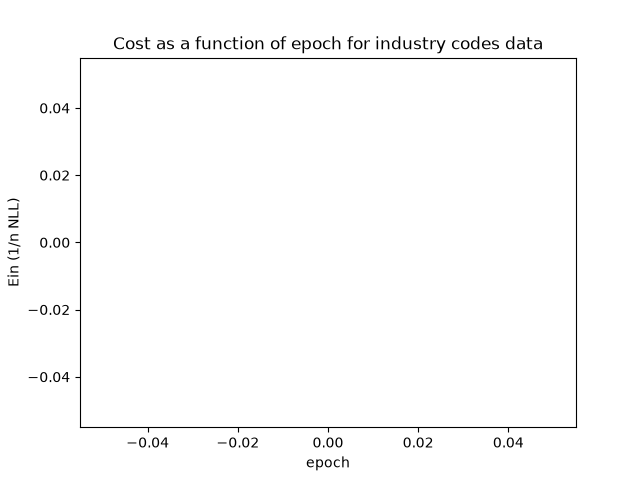
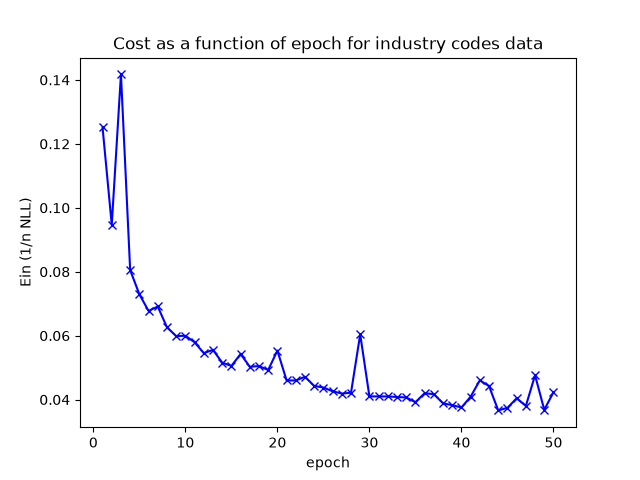
Code finsihed for Handin_1 machine learning

diff --git a/ML26/Handin1/h1_starter_code/h1git/logistic_regression.py b/ML26/Handin1/h1_starter_code/h1git/logistic_regression.py
@@ -51,6 +51,18 @@ class LogisticRegressionClassifier():
         grad = np.zeros(w.shape)
     
         ### YOUR CODE HERE
+        n = X.shape[0]
+        # Margin: s_i = y_i * (x_i . w)
+        exponent = y * np.dot(X, w)
+        
+        # Average negative log-likelihood
+        # numpy has np.logaddexp(0, -s) that computes ln(1 + exp(-s)) with less overflow (numerical stability) #trust
+        cost = np.mean(np.logaddexp(0, -exponent))
+        
+        # Gradient:
+        # logistic(-exponent), let arg be negative, to get a positive output 
+        # transpose X to get correct dimensions
+        grad = -np.dot(X.T, y * logistic(-exponent))
         ### END CODE
         assert grad.shape == w.shape
         return cost, grad
@@ -81,8 +93,24 @@ class LogisticRegressionClassifier():
         if w is None: w = np.zeros(X.shape[1])
         history = []        
         ### YOUR CODE HERE 
-        
-
+        n = X.shape[0]
+        for epoch in range(epochs):
+            # Shuffle data before each epoch
+            indices = np.random.permutation(n)
+            X_shuffled = X[indices]
+            y_shuffled = y[indices]
+            
+            # Mini-batch gradient descent thing
+            for i in range(0, n, batch_size):
+                X_batch = X_shuffled[i : i + batch_size]
+                y_batch = y_shuffled[i : i + batch_size]
+                _, grad = self.cost_grad(X_batch, y_batch, w) # not interested in the cost here
+                w = w - lr * grad
+            
+            # remember cost for each epoch
+            epoch_cost, _ = self.cost_grad(X, y, w) # cost here
+            history.append(epoch_cost)
+            print(f"Epoch {epoch + 1}/{epochs} - Cost: {epoch_cost:.4f}") #check status after each epoch
         ### END CODE
         self.w = w
         self.history = history
@@ -102,10 +130,9 @@ class LogisticRegressionClassifier():
         """
         out = np.ones(X.shape[0])
         ### YOUR CODE HERE
-        w = self.w
-        sigmoid = logistic(np.dot(X, w)) ## Helper function
-        out[sigmoid < 0.5] = -1
-        
+        w = self.w 
+        sigmoid = logistic(np.dot(X, w)) ## Helper function to compress value into a probability between 0 and 1
+        out[sigmoid < 0.5] = -1 # everyhting under 0.5 after the sigmoid func is classified as -1 and everything else 1
         ### END CODE
         return out
 
@@ -123,8 +150,8 @@ class LogisticRegressionClassifier():
         """
         s = 0
         ### YOUR CODE HERE
-        predictions = self.predict(X)
-        s = np.mean(predictions == y)
+        # get predictions and compare with true labels to compute accuracy
+        s = np.mean(self.predict(X) == y)
         ### END CODE
         return s
         

diff --git a/ML26/Handin1/h1_starter_code/h1git/softmax.py b/ML26/Handin1/h1_starter_code/h1git/softmax.py
@@ -24,6 +24,11 @@ def softmax(X):
     """
     res = np.zeros(X.shape)
     ### YOUR CODE HERE
+    # Loop this? check if numpy does it already numpy = magic
+    max_x = np.amax(X, axis=1, keepdims=True)
+    logsum = np.log(np.sum(np.exp(X - max_x), axis=1, keepdims=True)) + max_x
+    log_sm = X - logsum
+    res = np.exp(log_sm)
     ### END CODE
     return res
 
@@ -63,6 +68,14 @@ class SoftmaxClassifier():
         grad = np.zeros(W.shape)*np.nan
         Yk = one_in_k_encoding(y, self.num_classes) # may help - otherwise you may remove it
         ### YOUR CODE HERE
+        n = X.shape[0]
+        P = softmax(np.dot(X, W))
+        
+        # Average negative log-likelihood cost (Yk can be used)
+        cost = -np.sum(Yk * np.log(P)) / n 
+        
+        # Gradient 
+        grad = np.dot(X.T, P - Yk) / n
         ### END CODE
         return cost, grad
 
@@ -87,6 +100,22 @@ class SoftmaxClassifier():
         if W is None: W = np.zeros((X.shape[1], self.num_classes))
         history = []
         ### YOUR CODE HERE
+        # Same procedure as in LogisticRegClassifier
+        n = X.shape[0]
+        for epoch in range(epochs):
+            indices = np.random.permutation(n)
+            X_shuffled = X[indices]
+            Y_shuffled = Y[indices]
+            
+            for i in range(0, n, batch_size):
+                X_batch = X_shuffled[i : i + batch_size]
+                Y_batch = Y_shuffled[i : i + batch_size]
+                _, grad = self.cost_grad(X_batch, Y_batch, W)
+                W = W - lr * grad
+                
+            epoch_cost, _ = self.cost_grad(X, Y, W)
+            history.append(epoch_cost)
+            print(f"Epoch {epoch + 1}/{epochs} - Cost: {epoch_cost:.4f}")
         ### END CODE
         self.W = W
         self.history = history
@@ -103,6 +132,7 @@ class SoftmaxClassifier():
         """
         out = 0
         ### YOUR CODE HERE
+        out = np.mean(self.predict(X) == Y)
         ### END CODE
         return out
 
@@ -115,7 +145,8 @@ class SoftmaxClassifier():
            out: np.array shape (n, ) - prediction on each data point (number in 0,1,..., num_classes-1)
         """
         out = None
-        ### YOUR CODE HERE   
+        ### YOUR CODE HERE
+        out = np.argmax(np.dot(X, self.W), axis=1)
         ### END CODE
         return out
 
